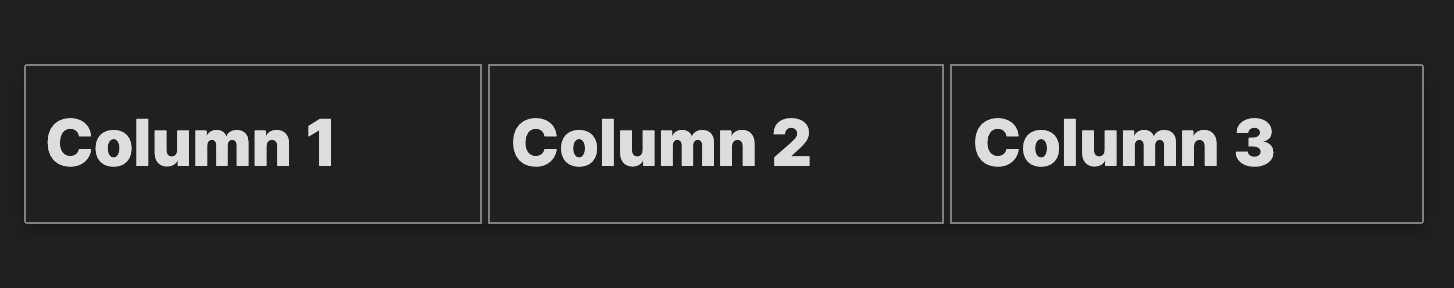
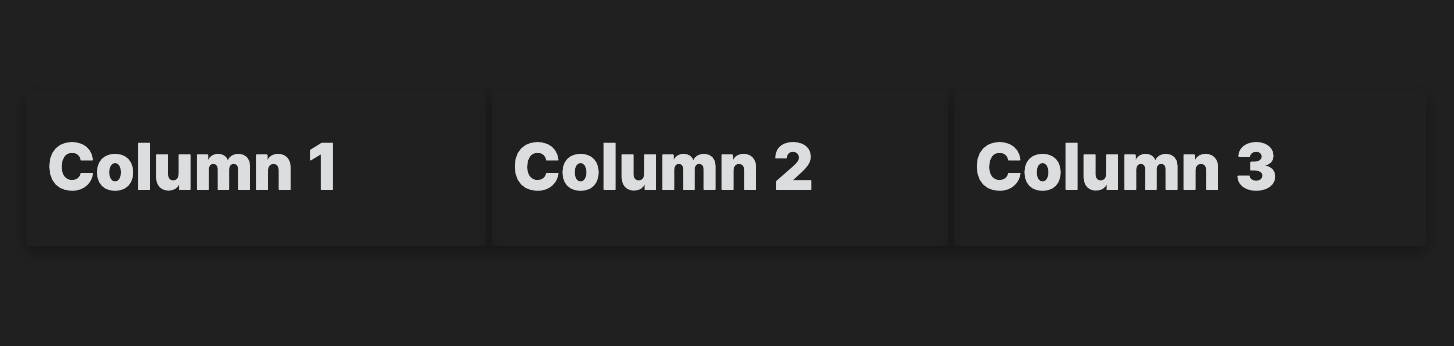
Updated documentation for version 0.2.0

diff --git a/README.md b/README.md
@@ -37,7 +37,7 @@ Text displayed in column 2.
 Text displayed below.
 
 
-Rendered as:
+**Rendered as:**
 ![Eample_1](https://github.com/ckRobinson/multi-column_markdown/blob/master/images/Example_1.png?raw=true)
 
 ---
@@ -65,7 +65,7 @@ Each tag type can be defined with the following options:
 ### **Valid Column Settings:**
 ---
 
-The column settings block can be omitted which will by default set the region to two equal sized columns. To change how the region is rendered you must define a settings block. The setting tags and all valid options are listed below.
+The column settings block can be omitted which will by default set the region to two equal sized columns. To change how the region is rendered you must define a settings block. The settings tags and all valid options for each setting are listed below.
 
 The settings block must be define right after the multi-column start tag and each settings tag must be on a separate line. EG:
 
@@ -73,6 +73,7 @@ The settings block must be define right after the multi-column start tag and eac
 \```column-settings\
 number of columns: 2\
 largest column: left\
+border: enabled\
 \```
 
 <br>
@@ -97,6 +98,12 @@ if this option is omitted.
     - Third
     - Middle
 
+Border:
+- By default the border is enabled but can be removed with:
+    - disabled
+    - off
+    - false
+
 <br>
 
 ### **Full Examples:**
@@ -120,6 +127,7 @@ if this option is omitted.
 === start-multi-column:exampleID_3Columns\
 \```column-settings\
 number of columns: 3\
+border: off\
 \```
 
 \# Column 1
@@ -167,10 +175,9 @@ largest column: center\
 ---
 
 After defining start-multi-column you must declare an ID for 
-the block. The ID is used to differentiate between separate blocks when they are
-rendered.
+the region. The ID is used to differentiate between different regions if there are multiple in the same document.
 
-Currently you can not place a multi column within another multi column.
+Currently you can not place a multi-column region within another multi-column region.
 
 <br>
 
@@ -213,11 +220,11 @@ If this is your first Obsidian plugin close and reopen Obsidian and then open th
 
 ### When preview pane and edit pane are open at the same time.
 
-- Cutting a line or deleting the last character from a line within a multi-column region will not update in the preview pane.
+- Cutting out a line or deleting the last character on a line that was within a multi-column region will not update in the preview pane.
     - Quick Fix #1: Close and reopen the preview pane. Sometimes this requires swapping to a new file and back.
 
     - Quick Fix #2: Add a new character to an already existing line and then remove the character. This will force a full refresh of the multi-column region.
-- Adding a new multi-column region around an existing set of data causes the existing data to be rendered twice, the original data and again within the multi-column.
+- Adding a new multi-column region around an existing set of data causes the existing data to be rendered twice. Once as the original data and again within the new multi-column region.
     - Quick Fix: Close and reopen the preview pane. Sometimes this requires swapping to a new file and back.
 
 ### Other
@@ -228,6 +235,9 @@ If this is your first Obsidian plugin close and reopen Obsidian and then open th
 <br><br>
 
 # Version History
+
+### **0.2.0**
+Added additional setting to the multi-column regions. Users can now disable the borders around the regions if desired by setting "border: disabled" within the settings block.
 
 ### **0.1.0**
 Initial release.
